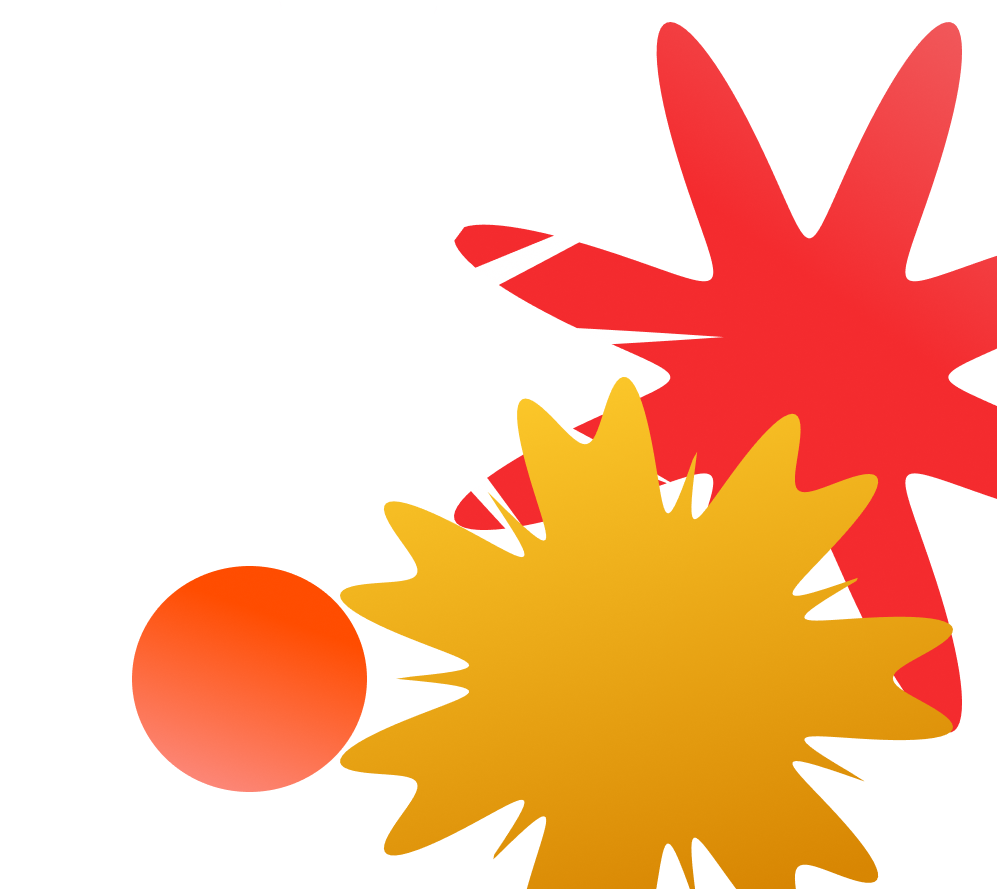
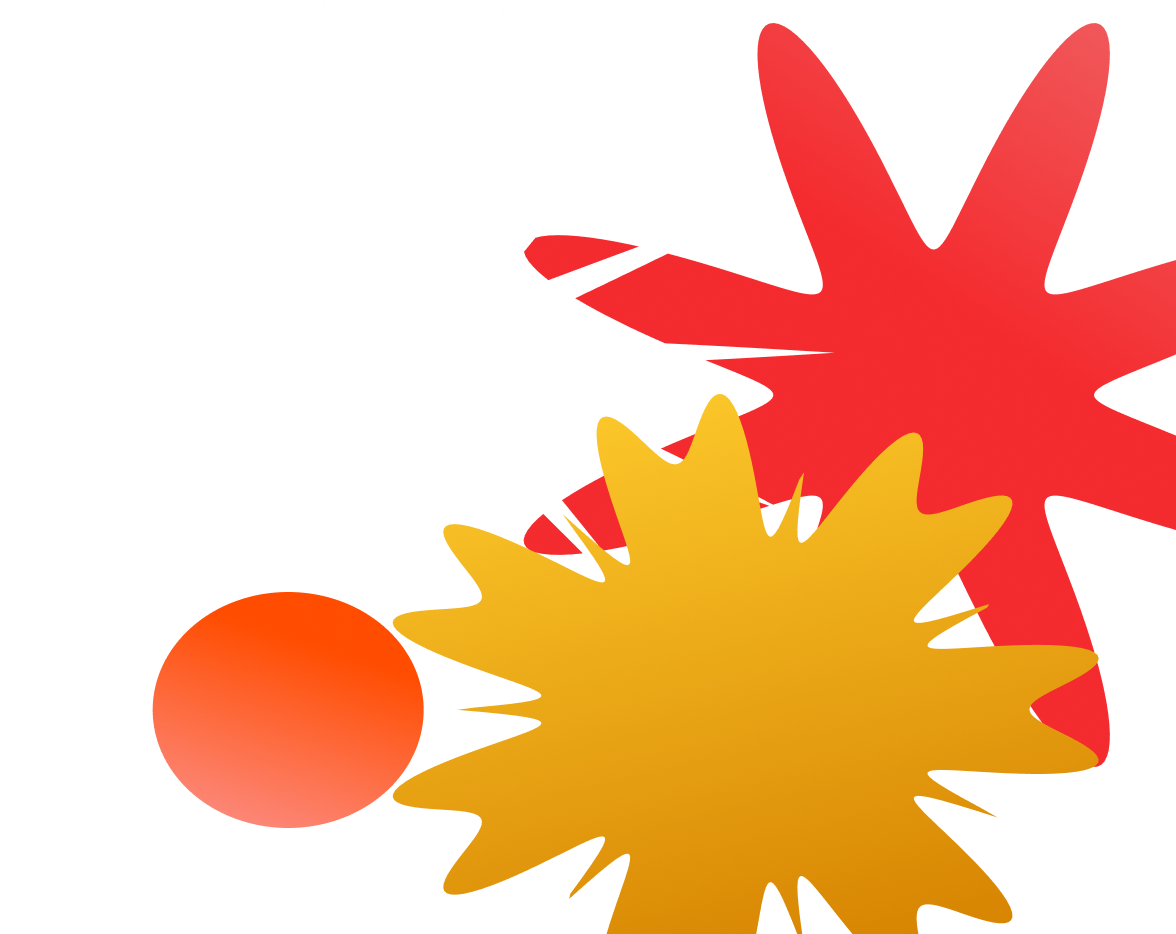
Small changes to main page

diff --git a/style.css b/style.css
@@ -51,14 +51,14 @@ body {
 
   #splatter {
     position: absolute;
-    top: 113px;
-    left: 705px;
-    width: 700px;
+    top: 120px;
+    left: 690px;
+    width: 730px;
   }
 
   #computer {
     position: absolute;
-    top: 300px;
-    left: 825px;
-    width: 500px;
+    top:250px;
+    left: 775px;
+    width: 575px;
   }
